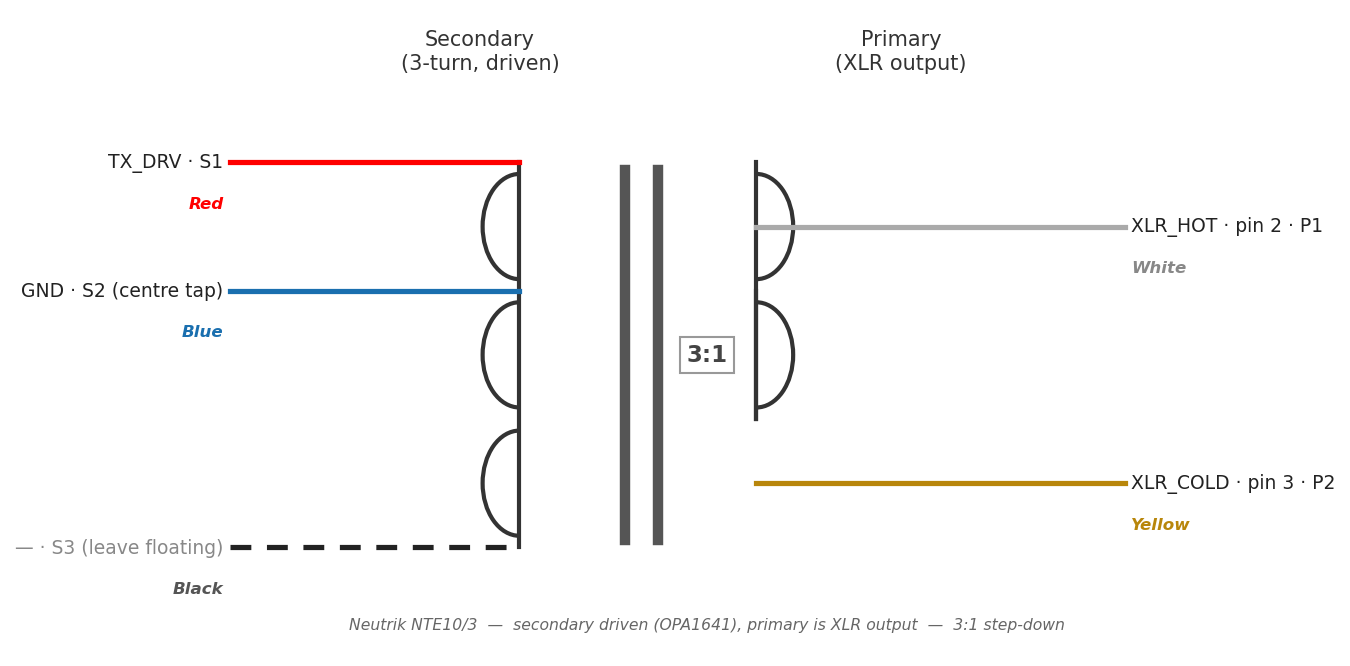
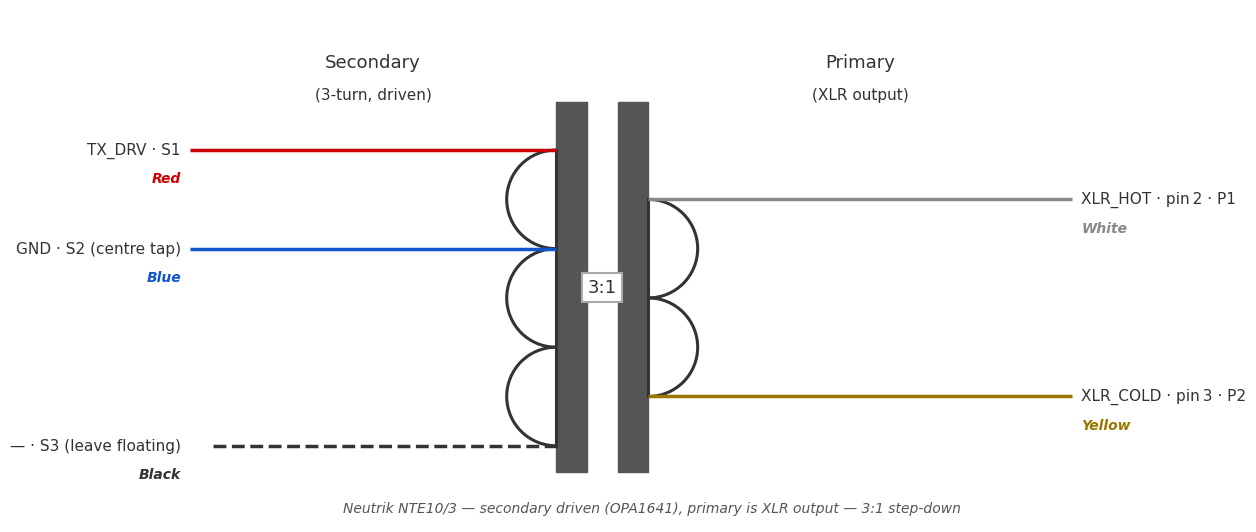
docs: add transformer wiring generator; fix primary circle alignment
Primary circles were positioned one radius too high — XLR_HOT exited from
the upper circle equator, XLR_COLD floated below the lower circle. Circles
now span P1_Y (4.19) to P2_Y (1.63) so both wires connect at the correct
junction points.

diff --git a/img/gen_transformer_wiring.py b/img/gen_transformer_wiring.py
@@ -1,0 +1,150 @@
+#!/usr/bin/env python3
+"""Generate img/transformer_wiring.png.
+
+Run from the project root:
+    python img/gen_transformer_wiring.py
+"""
+
+import numpy as np
+import matplotlib
+matplotlib.use('Agg')
+import matplotlib.pyplot as plt
+import matplotlib.patches as mpatches
+
+W, H = 13.5, 6.66          # figure size in inches (matches original 1350×666 @ 100 dpi)
+
+fig, ax = plt.subplots(figsize=(W, H))
+fig.patch.set_facecolor('white')
+ax.set_facecolor('white')
+ax.set_xlim(0, W)
+ax.set_ylim(0, H)
+ax.set_aspect('equal')
+ax.axis('off')
+
+# ── colours ─────────────────────────────────────────────────────────────────
+RED  = '#cc0000'
+BLUE = '#1155cc'
+GOLD = '#997700'
+GRAY = '#888888'
+DARK = '#333333'
+
+# ── core ────────────────────────────────────────────────────────────────────
+CL   = 5.50   # left bar left edge
+CLW  = 0.40   # bar width
+GAP  = 0.40   # gap between bars
+CR   = CL + CLW + GAP          # right bar left edge  = 6.30
+CRR  = CR + CLW                # right bar right edge = 6.70
+CTOP = 5.45
+CBOT = 0.65
+
+for x0 in (CL, CR):
+    ax.fill([x0, x0+CLW, x0+CLW, x0], [CBOT, CBOT, CTOP, CTOP],
+            color='#555555', zorder=2)
+
+ax.text((CL+CLW + CR) / 2, (CTOP+CBOT) / 2, '3:1',
+        ha='center', va='center', fontsize=13, color=DARK, zorder=4,
+        bbox=dict(boxstyle='square,pad=0.3', fc='white', ec='#aaaaaa', lw=1.5))
+
+# ── coil semicircles ─────────────────────────────────────────────────────────
+# Each turn is a semicircular bump + a spine line connecting them.
+# Secondary: bumps face LEFT,  spine at x=CL   (touches left core bar)
+# Primary:   bumps face RIGHT, spine at x=CRR  (touches right core bar)
+
+R = 0.64
+LW_COIL = 2.2
+
+# Secondary: 3 turns; S1=top, S2=centre tap (after 1st turn), S3=bottom
+S1_Y = 4.83
+sec_yc = [S1_Y - R - i*2*R for i in range(3)]   # arc centres y: [4.19, 2.91, 1.63]
+S2_Y   = sec_yc[0] - R                           # 3.55 — junction between turns 1 & 2
+S3_Y   = sec_yc[2] - R                           # 0.99 — bottom of turn 3
+
+# Primary: 2 turns; P1=top, P2=bottom — aligned to wire positions
+P1_Y = 4.19
+pri_yc = [P1_Y - R - i*2*R for i in range(2)]   # arc centres y: [3.55, 2.27]
+P2_Y   = pri_yc[1] - R                           # 1.63
+
+# Spine lines (vertical, behind the arcs)
+ax.plot([CL,  CL],  [S3_Y, S1_Y], color=DARK, lw=LW_COIL, zorder=2)
+ax.plot([CRR, CRR], [P2_Y, P1_Y], color=DARK, lw=LW_COIL, zorder=2)
+
+# Semicircular arcs (drawn on top of spine)
+# Secondary: left-facing → arc from 90° to 270° counterclockwise (through 180°)
+for yc in sec_yc:
+    ax.add_patch(mpatches.Arc((CL, yc), 2*R, 2*R,
+                              theta1=90, theta2=270,
+                              edgecolor=DARK, linewidth=LW_COIL, zorder=3))
+
+# Primary: right-facing → arc from 270° to 90° counterclockwise (through 0°)
+for yc in pri_yc:
+    ax.add_patch(mpatches.Arc((CRR, yc), 2*R, 2*R,
+                              theta1=270, theta2=90,
+                              edgecolor=DARK, linewidth=LW_COIL, zorder=3))
+
+# ── wires ────────────────────────────────────────────────────────────────────
+LW_WIRE = 2.5
+
+def hw(y, x0, x1, color, lw=LW_WIRE, ls='-'):
+    ax.plot([x0, x1], [y, y], color=color, lw=lw, ls=ls,
+            solid_capstyle='butt', zorder=5)
+
+XL = 0.75    # left label end
+XR = 12.20   # right label end
+
+# Wires connect at the spine (CL for secondary, CRR for primary)
+hw(S1_Y, XL, CL,  RED)
+hw(S2_Y, XL, CL,  BLUE)
+hw(S3_Y, XL + 0.30, CL, DARK, ls='--')
+hw(P1_Y, CRR, XR, GRAY)
+hw(P2_Y, CRR, XR, GOLD)
+
+# ── text labels ───────────────────────────────────────────────────────────────
+FS_MAIN  = 11.0
+FS_COLOR = 10.0
+DY_COLOR = -0.37   # colour name sits this far below the wire label
+
+def label_l(y, main, cname, ccolor):
+    ax.text(XL - 0.12, y, main, ha='right', va='center',
+            fontsize=FS_MAIN, color=DARK)
+    ax.text(XL - 0.12, y + DY_COLOR, cname, ha='right', va='center',
+            fontsize=FS_COLOR, color=ccolor, fontstyle='italic', fontweight='bold')
+
+def label_r(y, main, cname, ccolor):
+    ax.text(XR + 0.12, y, main, ha='left', va='center',
+            fontsize=FS_MAIN, color=DARK)
+    ax.text(XR + 0.12, y + DY_COLOR, cname, ha='left', va='center',
+            fontsize=FS_COLOR, color=ccolor, fontstyle='italic', fontweight='bold')
+
+label_l(S1_Y, 'TX_DRV · S1',             'Red',   RED)
+label_l(S2_Y, 'GND · S2 (centre tap)',   'Blue',  BLUE)
+label_l(S3_Y, '— · S3 (leave floating)', 'Black', DARK)
+
+label_r(P1_Y, 'XLR_HOT · pin 2 · P1',  'White',  GRAY)
+label_r(P2_Y, 'XLR_COLD · pin 3 · P2', 'Yellow', GOLD)
+
+# ── section titles ────────────────────────────────────────────────────────────
+SEC_TITLE_X = (XL + CL) / 2
+PRI_TITLE_X = (CRR + XR) / 2
+TITLE_Y     = CTOP + 0.52
+SUB_Y       = TITLE_Y - 0.42
+
+ax.text(SEC_TITLE_X, TITLE_Y, 'Secondary',
+        ha='center', va='center', fontsize=13, color=DARK)
+ax.text(SEC_TITLE_X, SUB_Y,   '(3-turn, driven)',
+        ha='center', va='center', fontsize=11, color=DARK)
+
+ax.text(PRI_TITLE_X, TITLE_Y, 'Primary',
+        ha='center', va='center', fontsize=13, color=DARK)
+ax.text(PRI_TITLE_X, SUB_Y,   '(XLR output)',
+        ha='center', va='center', fontsize=11, color=DARK)
+
+# ── caption ───────────────────────────────────────────────────────────────────
+ax.text(W / 2, 0.18,
+        'Neutrik NTE10/3 — secondary driven (OPA1641), primary is XLR output'
+        ' — 3:1 step-down',
+        ha='center', va='center', fontsize=10, color='#555555', fontstyle='italic')
+
+# ── save ─────────────────────────────────────────────────────────────────────
+out = 'img/transformer_wiring.png'
+fig.savefig(out, dpi=100, bbox_inches='tight', facecolor='white')
+print(f'Saved {out}')